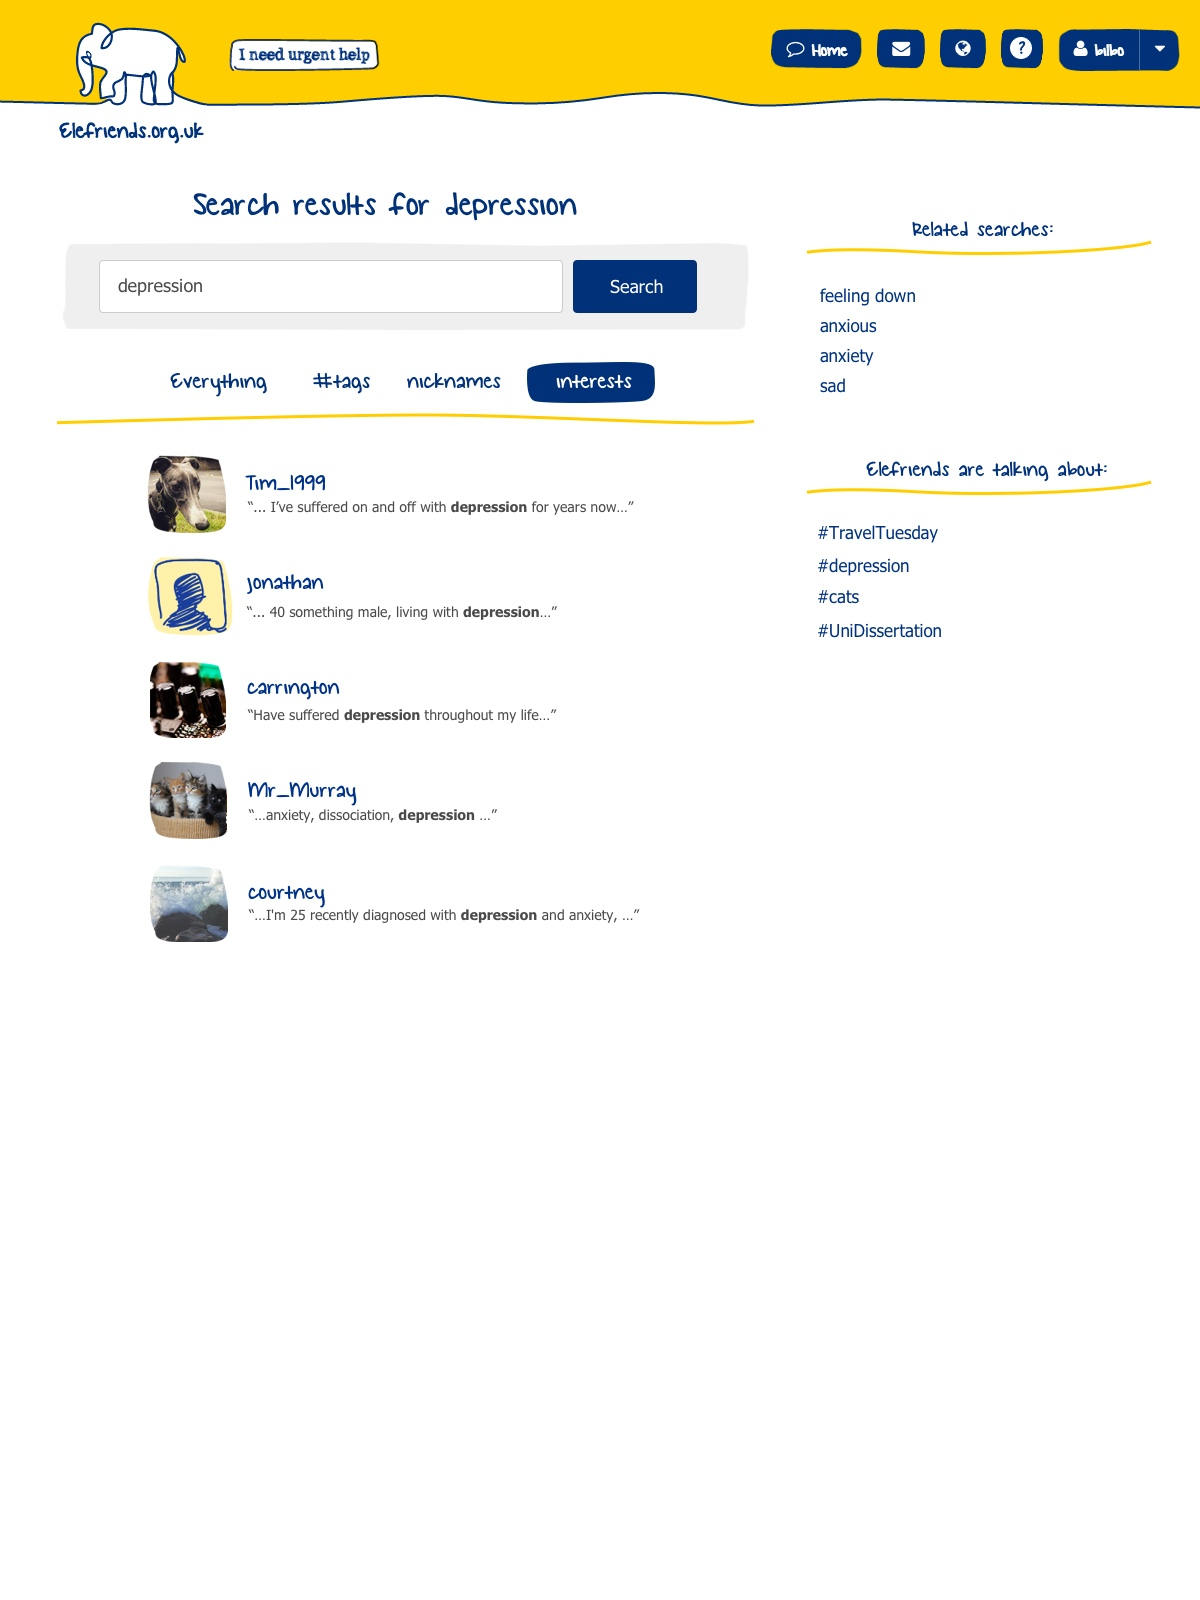
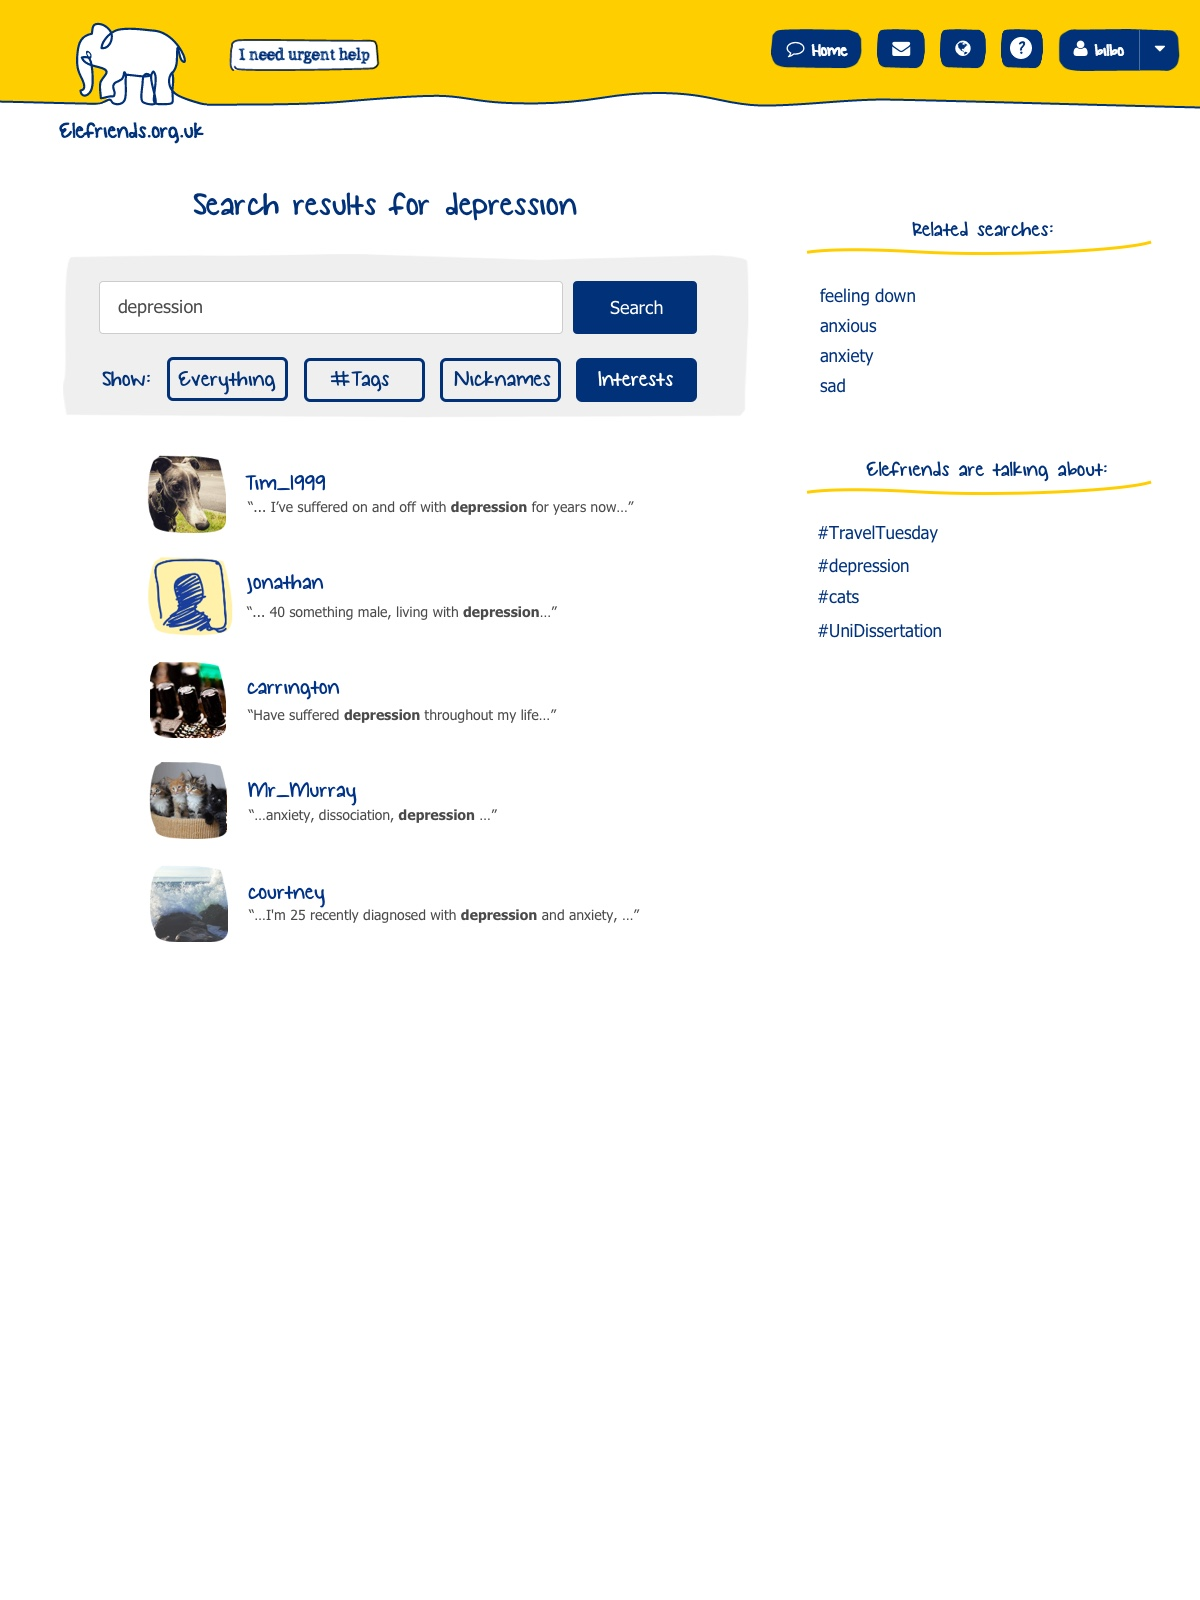
updated serach filter style

Changed region(s): [[0.0617, 0.1562, 0.6167, 0.2812]]

diff --git a/css/styles.css b/css/styles.css
@@ -274,22 +274,21 @@ mark {
   display: block;
   top: 357px;
   display: block;
-  width: 134px;
-  height: 46px;
+  width: 122px;
+  height: 45px;
   cursor: pointer;
 }
 #everything {
-  left: 152px;
+  left: 167px;
 }
 #tags {
-  left: 300px;
-  width: 95px;
+  left: 304px;
 }
 #nicknames {
-  left: 407px;
+  left: 440px;
 }
 #interests {
-  left: 551px;
+  left: 575px;
 }
 #tim {
   position: absolute;
